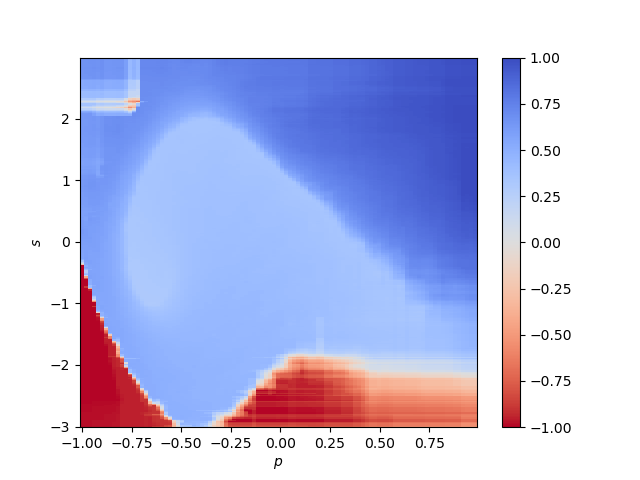
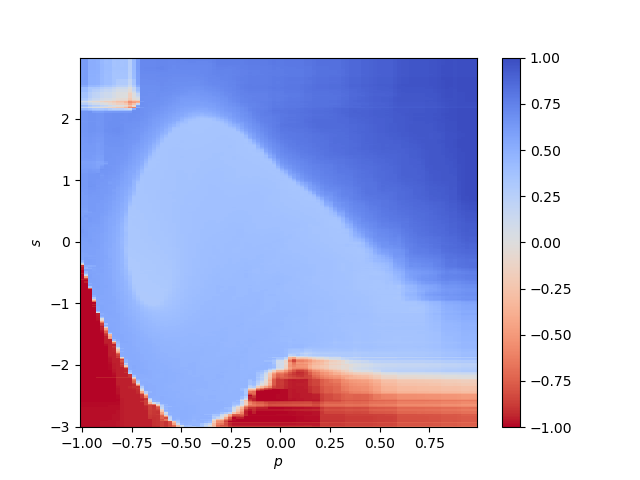
Fix

diff --git a/2/section4.py b/2/section4.py
@@ -21,41 +21,32 @@ def infinity_norm(Q_hat, Q):
     max_val = np.max(np.abs(Q_hat - Q))
     return max_val
 
-def bound_stop():
+# remove yield
+def bound_stop(current_n, prev_Q_hat, current_Q_hat):
     epsilon = 1e-2
     N = math.ceil(math.log((epsilon / (2 * B_r)) * (1. - DISCOUNT_FACTOR), DISCOUNT_FACTOR))
-    steps = 0
-    while True:
-        if steps == N:
-            yield False
-        steps+=1
-        yield True
+    return current_n > N
 
-def distance_stop():
+def distance_stop(current_n, prev_Q_hat, current_Q_hat):
     epsilon = 0.45
-    prev_Q_hat = None
-    current_Q_hat = None 
-    while True:
-        if prev_Q_hat is None:
-            prev_Q_hat = yield True
-        if current_Q_hat is None:
-            current_Q_hat = yield True 
-        if infinity_norm(prev_Q_hat, current_Q_hat) <= epsilon:
-            yield False 
-        else:
-            prev_Q_hat = current_Q_hat
-            current_Q_hat = yield True
+
+    if prev_Q_hat is None or current_Q_hat is None:
+        return False
+
+    return infinity_norm(prev_Q_hat, current_Q_hat) <= epsilon
+
 
 def get_stopping_rules():
     return (bound_stop, "bound"), (distance_stop, "distance")
 
 def get_models():
-    LR = LinearRegression(n_jobs=-1)
-    ETR = ExtraTreesRegressor(n_estimators=30, random_state=42)
-    NEURAL_NET = NN(layers=2, neurons=5, output=1, epochs=5, batch_size=32, activation="sigmoid")
-    return ETR, LR
+    LR =  lambda : LinearRegression(n_jobs=-1)
+    ETR = lambda : ExtraTreesRegressor(n_estimators=30, random_state=42)
+    NEURAL_NET = lambda : NN(layers=3, neurons=8, output=1, epochs=10, batch_size=32, activation="relu")
 
-def get_trajectories(nb_p=200, nb_s=600):
+    return NEURAL_NET, ETR, LR
+
+def get_trajectories(nb_p, nb_s):
     # Random
     domain = CarOnTheHillDomain()
     random_policy = RandomActionPolicy()
@@ -152,30 +143,26 @@ if __name__ == "__main__":
     epsilon = 1e-3
     N = math.ceil(math.log((epsilon / (2 * B_r)) * (1. - DISCOUNT_FACTOR), DISCOUNT_FACTOR))
 
-    for trajectories in get_trajectories(100, 300):
+    for trajectories in get_trajectories(115, 345):
         for stopping_rule in get_stopping_rules():
-            for model in get_models():
+            for get_model in get_models():
                 trajectory, trajectory_label = trajectories
                 rule, rule_label = stopping_rule
 
-                title = model.__class__.__name__ + "_" + trajectory_label + "_" + rule_label
+                title = get_model().__class__.__name__ + "_" + trajectory_label + "_" + rule_label
 
                 print(title)
 
-                fitted_Q = Fitted_Q(model, rule, DISCOUNT_FACTOR)
-                print("fit")
+                fitted_Q = Fitted_Q(get_model, rule, DISCOUNT_FACTOR)
                 fitted_Q.fit(trajectory)
-                print("Q")
                 plot_Q(fitted_Q, title)
-                print("mu")
                 plot_mu(fitted_Q, title)
 
                 fitted_Q_policy = FittedQPolicy(fitted_Q)
                 
-                nb_simulation = 100
-                print("j")
+                nb_simulation = 50
                 j = J(domain, fitted_Q_policy, DISCOUNT_FACTOR, nb_simulation, N)
-                print("Expected return of {} using {} trajectory generator and {} stopping rule:\n\t {}".format(model.__class__.__name__, trajectory_label, rule_label, j))
+                print("Expected return of {} using {} trajectory generator and {} stopping rule:\n\t {}".format(get_model().__class__.__name__, trajectory_label, rule_label, j))
 
 
 

diff --git a/2/python/fitted_Q.py b/2/python/fitted_Q.py
@@ -3,8 +3,9 @@ from python.domain import ACTIONS
 import numpy as np
 
 class Fitted_Q():
-    def __init__(self, model:RegressorMixin, stop, discount_factor:float) -> None:
-        self.model = model
+    def __init__(self, get_model, stop, discount_factor:float) -> None:
+        self.model = None
+        self.get_model = get_model
 
         if stop is None:
             exit() # TODO
@@ -25,17 +26,33 @@ class Fitted_Q():
         X_1 = np.c_[np.repeat(next_states, 2, axis=0), np.tile(np.array(ACTIONS), len(next_states))] 
 
         terminal = rewards != 0
+
         Q_hat = None
-        stop_condition = self.stop()
+        prev_Q = None
+        n = 0
+
+        model = None
+
         
-        while stop_condition.send(Q_hat):
-            self.model.fit(X, y)
-            Q_hat = self.model.predict(X_1).reshape(-1, 2)
+        while True:
+            model = self.get_model()
+            model.fit(X, y)
+
+            Q_hat = model.predict(X_1).reshape(-1, 2)
 
             max_u = Q_hat.max(axis=1) # extract the  values doing the best actions
 
             # When a terminal state is reached, it can not gain anymore rewards afterward
-            y = np.where(terminal, rewards, self.discount_factor * max_u)
+            y = np.where(terminal, rewards, rewards + self.discount_factor * max_u)
+
+            if self.stop(n, prev_Q, Q_hat):
+                break
+
+            prev_Q = Q_hat
+            n += 1
+            del model
+
+        self.model = model
 
     def predict(self, X):
         """ predict given state action pairs """

diff --git a/2/python/neural_network.py b/2/python/neural_network.py
@@ -16,12 +16,14 @@ class NN(keras.Sequential):
         for _ in range(layers):
             self.add(keras.layers.Dense(neurons, activation=self.activation, kernel_initializer=keras.initializers.RandomUniform(-0.5, 0.5), bias_initializer=keras.initializers.RandomUniform(-0.5, 0.5)))
 
-        self.add(keras.layers.Dense(output, activation, kernel_initializer=keras.initializers.RandomUniform(-0.5, 0.5), bias_initializer=keras.initializers.RandomUniform(-0.5, 0.5)))
+        self.add(keras.layers.Dense(output, kernel_initializer=keras.initializers.RandomUniform(-0.5, 0.5), bias_initializer=keras.initializers.RandomUniform(-0.5, 0.5)))
         self.compile(loss="mse", optimizer="adam")
         self.epochs = epochs
         self.batch_size = batch_size
 
 
-    def fit(self, X, y):
-        self.__init__(self.n_layers, self.neurons, 1, self.epochs, self.batch_size)
-        super().fit(X, y, epochs=self.epochs, batch_size=self.batch_size, verbose=False)
+    def fit(self, *args, **kwargs):
+        kwargs.setdefault('batch_size', self.batch_size)
+        kwargs.setdefault('epochs', self.epochs)
+        kwargs.setdefault('verbose', False)
+        super().fit(*args, **kwargs)

diff --git a/2/section2.py b/2/section2.py
@@ -22,7 +22,7 @@ if __name__ == "__main__":
     domain = CarOnTheHillDomain(DISCOUNT_FACTOR, M, GRAVITY, TIME_STEP, INTEGRATION_TIME_STEP)
     policy = AlwaysAcceleratePolicy()
 
-    nb_simulations = 100
+    nb_simulations = 50
 
     Jn = J(domain, policy, DISCOUNT_FACTOR, nb_simulations, N, save=True)
 
